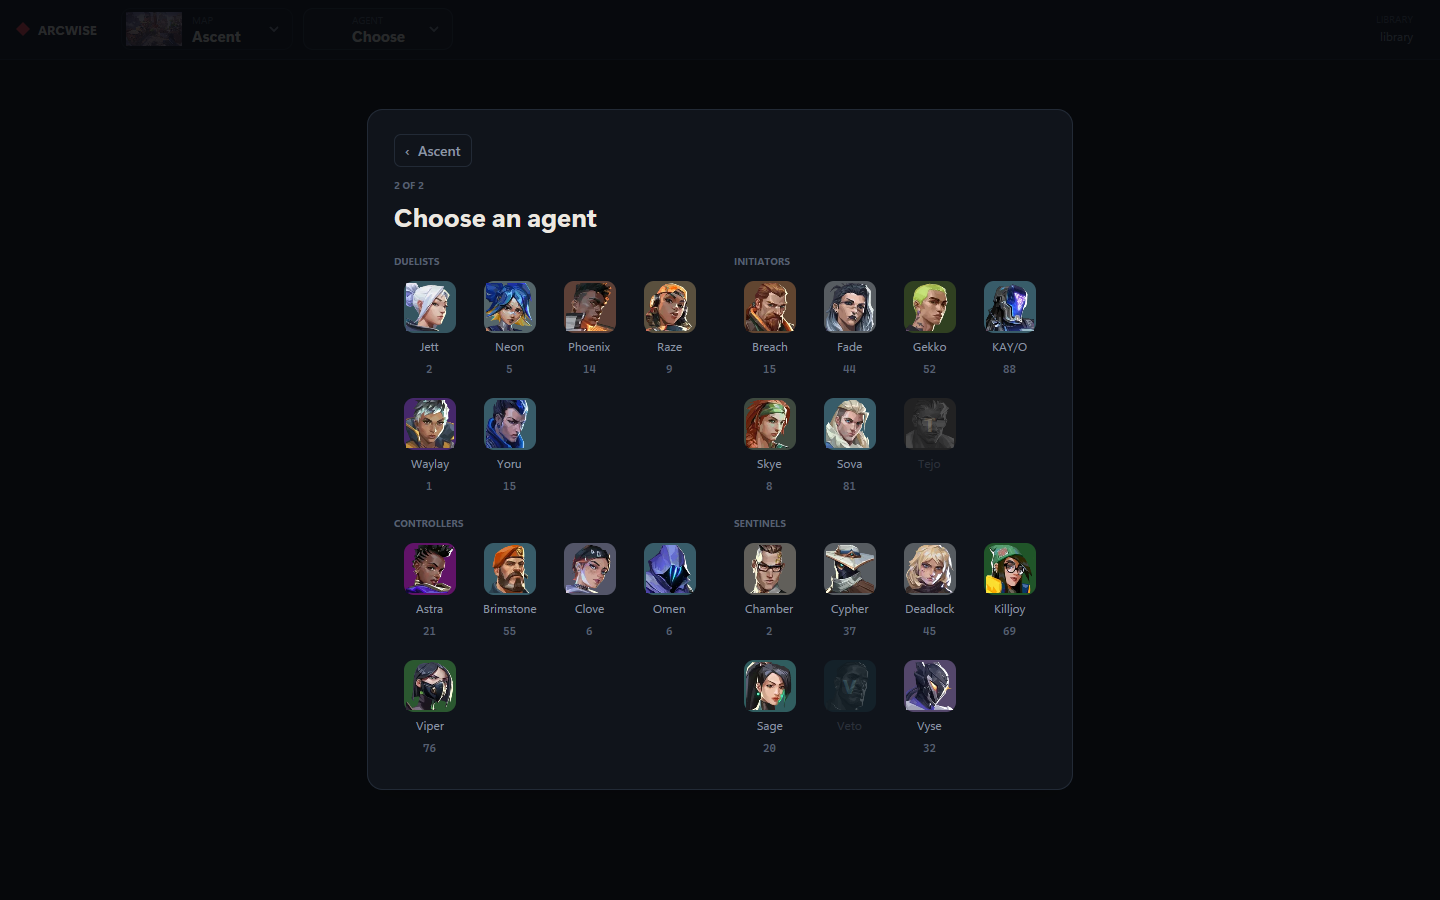
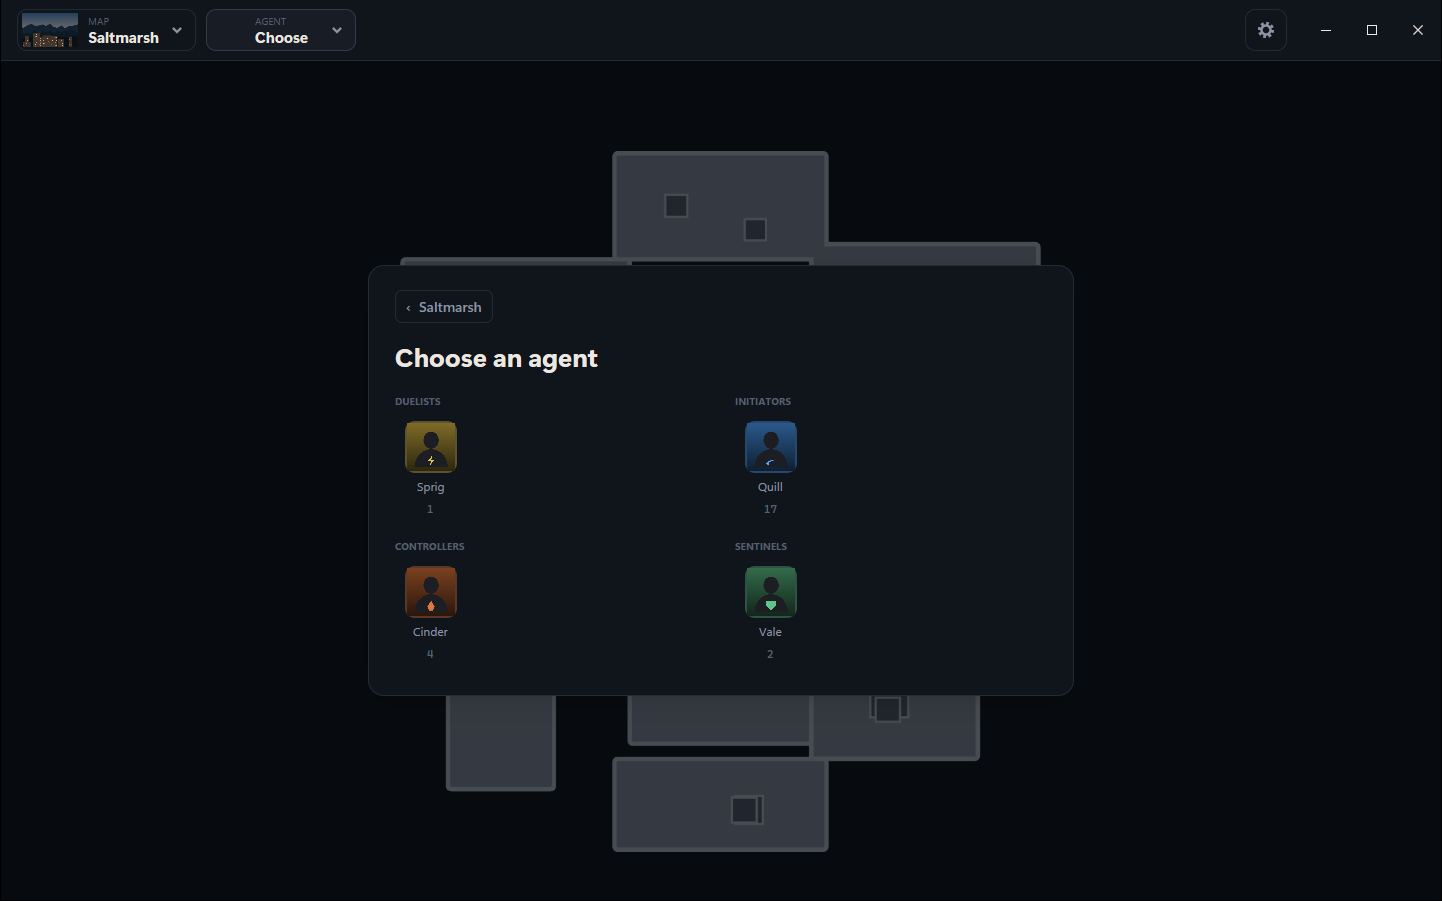
docs: rewrite the README with a quick start and screenshots (#26)
Rewrites the README in the shape the owner approved on two pilots
(taproot's, spareline #41 and teamdiff #22/#23), for a desktop app: what
Arcwise is and who it is for, how it differs from lineup videos and
overlays and what it doesn't do, a list of what it does, a hero
screenshot that links to a new gallery, a Quick start from the release
page to a lineup on screen, and where its files are and how to remove
it.

This is a rules pull request: `readme_sections` in `Cargo.toml` becomes
`["Quick start", "Documentation", "License"]` for the README's new
sections. The README, `docs/using.md` and the screenshots ride with it.
No crate changes, so no release.

## What changes for a reader

- `README.md`: the opening, the feature list with links into
`docs/using.md`, the hero image (`docs/screenshots/lineup.png`, linking
to the gallery), `## Quick start` with the installer's own words and
Windows' SmartScreen prompt for an unsigned installer, where the
program, settings and web-library copies live, and what the uninstaller
leaves. `## Documentation` gains a Screenshots entry. `## License` is
unchanged.
- `docs/using.md`: a new `## Screenshots` gallery with 14 screens, and
new alt text for its two inline images.
- `docs/screenshots/`: 12 new PNGs, and `choose-map.png` and
`choose-agent.png` replaced. The old two showed the live library, with
the game's map art and real lineup counts; the new ones show invented
data.

## The screenshots
[…]

diff --git a/README.md b/README.md
@@ -3,19 +3,93 @@
 [![CI](https://github.com/265866/arcwise/actions/workflows/ci.yml/badge.svg?branch=main)](https://github.com/265866/arcwise/actions/workflows/ci.yml?query=branch%3Amain)
 [![Latest release](https://img.shields.io/github/v/release/265866/arcwise)](https://github.com/265866/arcwise/releases/latest)
 
-A desktop lineup browser for Valorant.
+Arcwise is a Windows app for learning Valorant lineups: the throws that land a smoke, a dart or a
+molly on one exact spot. Pick a map and an agent, and it marks every spot where that agent's
+utility lands. Select one, and it shows where to stand, where to aim and how to throw, with a clip
+of the throw. It is for players who learn lineups between matches or keep them open on a second
+monitor while they play.
 
-## Install
+Lineups usually come as videos and web pages, one throw at a time, found by searching. Arcwise puts
+them on the map instead: all of a map's lineups for an agent at once, ready to walk through with
+the keyboard. The lineups come from libraries, each a web address or a folder of clips and
+pictures; Arcwise starts with [library.arcwise.lol](https://library.arcwise.lol/) and has no editor
+for making new ones. Arcwise never touches the game: nothing is drawn over it, nothing is read from
+it, and there is no Riot sign-in, so you tell it the map. It runs on 64-bit Windows 10 and 11 only.
 
-Download the file you want for your platform from the
-[latest release](https://github.com/265866/arcwise/releases/latest), check it
-as [Verify a release](docs/verifying-releases.md) shows, and install it.
-[Install](docs/install.md) has the details.
+- **Every landing on the map.** Lineups of one ability that land in the same place share a marker,
+  with a count. Point at one to see what lands there and where it is thrown from. See
+  [What it does](docs/using.md#what-it-does).
+- **The throw, four ways.** The clip, the stand spot on the map, the crosshair at the throw, and
+  where it lands, with the steps written out and a note for a jump throw or the like. See
+  [What it does](docs/using.md#what-it-does).
+- **Keys for browsing.** Arrow keys walk the landings and stand spots, Q, W, E and R switch the
+  view, and Space, Backspace and S pause, restart and slow the clip. Every shortcut but Esc and the
+  number keys can be changed. See [Keyboard](docs/using.md#keyboard).
+- **More libraries, and offline maps.** Add a library folder or another library on the web. Keep
+  a web library's maps on disk, and they play without a connection. See
+  [Lineups](docs/using.md#lineups) and [Libraries](docs/library-format.md).
+- **Hardware video.** Clips decode on the GPU and keep their full frame rate while the game has
+  focus. See [What it does](docs/using.md#what-it-does).
+- **Updates itself** once installed. Before it runs a new installer, it checks the installer's
+  GitHub attestation, a signed record that this repository's release workflow built that exact
+  file. See [Updates](docs/using.md#updates).
+
+[![Arcwise with a lineup open, in its dark theme. On the left, the map Saltmarsh with a marker for each landing and the selected throw drawn from stand spot 1. On the right, the lineup "Dart A Default from Lobby": its three stand spots, the clip with the dart in flight, tiles for the clip, stand spot, aim and landing views, the bow's charge bar, and the steps. The map, the agent Quill and the clip are invented for the screenshots.](docs/screenshots/lineup.png)](docs/using.md#screenshots)
+
+Select the picture, or see [Screenshots](docs/using.md#screenshots), for every screen from choosing
+a map to the settings. The maps, agents and clips in them are made up for the screenshots.
+
+## Quick start
+
+You need 64-bit Windows 10 or 11 with a graphics card that runs Direct3D 11, and an internet
+connection for the lineups of [library.arcwise.lol](https://library.arcwise.lol/). Clips in AV1
+also need the [AV1 Video Extension](https://apps.microsoft.com/detail/9mvzqvxjbq9v) from the
+Microsoft Store, which Windows 11 usually has already.
+
+1. Download `arcwise-<version>-x64-setup.exe` from the
+   [latest release](https://github.com/265866/arcwise/releases/latest). To check the file first,
+   follow [Verify a release](docs/verifying-releases.md).
+
+2. Open the file. The installer has no code signature yet, so SmartScreen may stop it with
+   "Windows protected your PC". Select **More info**, then **Run anyway**.
+
+3. Follow the installer. It installs Arcwise for your Windows account only, so it never asks for
+   administrator rights. It adds Arcwise to the Start menu, and to the desktop if you tick
+   **Create a desktop shortcut**. Leave **Launch Arcwise** ticked and select **Finish**.
+
+4. Arcwise says "Loading lineups…" while it fetches the library, then opens on **Choose a map**.
+   Pick a map, then an agent. Without a connection it says "No lineups to show" instead: connect
+   and select **Try again**, or select **Add a folder…** for a library folder you already have.
+
+5. Select a marker on the map. The panel on the right plays the clip of the throw. Press
+   <kbd>W</kbd>, <kbd>E</kbd> and <kbd>R</kbd> for where to stand, where to aim and where it lands,
+   and <kbd>Q</kbd> for the clip, which the panel calls **Watch**. <kbd>←</kbd> and <kbd>→</kbd>
+   move to another stand spot for the same landing, <kbd>↓</kbd> and <kbd>↑</kbd> to the next or
+   previous landing, and <kbd>Tab</kbd> between attack and defense. <kbd>Esc</kbd> goes back to
+   the map.
+
+Arcwise reopens where you left it, on the same map, agent and monitor. When a new version comes
+out, it downloads it in the background and installs it when you close Arcwise, as long as
+**Automatic updates** stays on, as it is at first.
+[Use Arcwise](docs/using.md) has the settings, the command line, and how updates work. To run
+Arcwise without installing it, the release also has `arcwise-<version>-x64.zip`, with the same
+`arcwise.exe`; a copy run from the zip doesn't update itself.
+
+If you have Arcwise 0.10.0 or earlier, it can't reach releases from this repository by itself:
+run the new installer once over it, and your settings carry over.
+
+**Where its files are.** Arcwise installs in `%LOCALAPPDATA%\Programs\Arcwise` by default. Its
+settings are in `%APPDATA%\Arcwise\settings.json`, and its copies of libraries on the web in
+`%LOCALAPPDATA%\Arcwise\libraries`. To remove Arcwise, uninstall it from **Settings** > **Apps** >
+**Installed apps** (**Apps & features** on Windows 10). The uninstaller asks whether to delete
+your settings too. It leaves the copies of web libraries, so delete `%LOCALAPPDATA%\Arcwise` as
+well to remove everything.
 
 ## Documentation
 
-- [Install](docs/install.md): every way to install and update it.
 - [Use Arcwise](docs/using.md): install it on Windows, what it does, its keys and settings, and how it updates itself.
+- [Screenshots](docs/using.md#screenshots): every screen, from choosing a map to the settings.
+- [Install](docs/install.md): every way to install and update it.
 - [Libraries](docs/library-format.md): how Arcwise reads, merges and mirrors lineup libraries.
 - [Verify a release](docs/verifying-releases.md): check that a download came from this repository.
 - [Design](docs/design.md): the goals, the architecture, and the decisions behind them.

diff --git a/docs/using.md b/docs/using.md
@@ -6,7 +6,7 @@ browser for Valorant. Pick a map and an agent, see where each piece of utility l
 exactly where to stand, where to aim and how to throw. It is a separate window, not an overlay:
 keep it on a second monitor while you play.
 
-![Choosing a map](screenshots/choose-map.png)
+![Choose a map: a card for each map with lineups, with its picture and how many lineups it has. The maps are invented for the screenshots.](screenshots/choose-map.png)
 
 ## Install on Windows
 
@@ -40,7 +40,7 @@ The uninstaller asks whether to delete your settings too.
   frame rate even while another window has focus, at about an eighth of one CPU core (as
   measured for Arcwise 0.10.0, which decodes the same way).
 
-![Choosing an agent](screenshots/choose-agent.png)
+![Choose an agent: the agents grouped as duelists, initiators, controllers and sentinels, each with how many lineups it has on the map. The agents are invented for the screenshots.](screenshots/choose-agent.png)
 
 ## Keyboard
 
@@ -142,3 +142,31 @@ command line Arcwise can't read, such as an unknown flag or `--side up`, opens t
 error. `arcwise --version` prints the
 version and exits; from a console, pipe or redirect it, such as `arcwise --version | more`, since
 Arcwise is a windowed program and has no console of its own.
+
+## Screenshots
+
+The screenshots show Arcwise 0.11.1 in its dark theme, with background blur off, on a library made
+up for them. Its maps, agents, abilities, callouts, pictures and clips are invented and drawn, and
+none of them comes from the game or from library.arcwise.lol. Select an image to see it at full
+size.
+
+| Screen | Screenshot |
+| --- | --- |
+| **Choose a map:** the first run, before a map is picked | [<img src="screenshots/choose-map.png" width="480" alt="Choose a map: four invented maps, each with its picture and how many lineups it has">](screenshots/choose-map.png) |
+| **Choose an agent:** each agent by role, with how many lineups it has on the map | [<img src="screenshots/choose-agent.png" width="480" alt="Choose an agent: one invented agent in each of the four roles, each with how many lineups it has on Saltmarsh">](screenshots/choose-agent.png) |
+| **The map:** a marker for every landing, and a filter for each ability | [<img src="screenshots/map.png" width="480" alt="The map Saltmarsh with ten landing markers, two of them with a count, under buttons for All and each of three abilities">](screenshots/map.png) |
+| **A landing:** pointing at a marker says what lands there and where it is thrown from | [<img src="screenshots/landing.png" width="480" alt="A tooltip over a marker: Tracer Dart lands at A Default, from A Lobby, A Main and A Link">](screenshots/landing.png) |
+| **The map picker:** the header's map and agent open as dropdowns after the first run | [<img src="screenshots/map-picker.png" width="480" alt="The map dropdown open under the header, with the four maps and Saltmarsh selected">](screenshots/map-picker.png) |
+| **A lineup:** the clip, the stand spots for the landing, the bow's charge and the steps | [<img src="screenshots/lineup.png" width="480" alt="A lineup open: the map with the throw drawn from stand spot 1, and the panel with the clip of the dart in flight, the four view tiles, the bow's charge bar and the steps">](screenshots/lineup.png) |
+| **Stand:** the map around the stand spot, with the throw's direction | [<img src="screenshots/stand.png" width="480" alt="The stand view: the map zoomed in on stand spot 1, with a dashed line for the throw">](screenshots/stand.png) |
+| **Aim:** the crosshair at the moment of the throw | [<img src="screenshots/aim.png" width="480" alt="The aim view: a drawn scene from the stand spot with the crosshair where to aim">](screenshots/aim.png) |
+| **Lands:** where the throw lands | [<img src="screenshots/lands.png" width="480" alt="The lands view: the same drawn scene with the landing glowing on the ground">](screenshots/lands.png) |
+| **Settings, General:** the libraries shown, and whether Arcwise opens where you left off | [<img src="screenshots/settings-general.png" width="480" alt="The General tab: the demo library folder with 40 lineups on 4 maps, the buttons to add a folder or a web address, and Open where I left off">](screenshots/settings-general.png) |
+| **Settings, Appearance:** the theme, the title bar and background blur. Reset shows because blur is off here, which isn't the default. | [<img src="screenshots/settings-appearance.png" width="480" alt="The Appearance tab: Dark, Light and System themes, Custom title bar on, and Background blur off with Reset beside it">](screenshots/settings-appearance.png) |
+| **Settings, Keyboard:** every shortcut, and the ones that can't change | [<img src="screenshots/settings-keyboard.png" width="480" alt="The Keyboard tab: the shortcuts for browsing, the views, the clip and the window, with Esc and the number keys marked fixed">](screenshots/settings-keyboard.png) |
+| **Settings, Updates:** as a copy run from the zip or built from source shows it | [<img src="screenshots/settings-updates.png" width="480" alt="The Updates tab: Automatic updates on, Arcwise 0.11.1 not run from where it was installed so it does not update itself, and What's new">](screenshots/settings-updates.png) |
+| **Windows' title bar:** with **Custom title bar** off | [<img src="screenshots/windows-title-bar.png" width="480" alt="Arcwise under Windows' own dark title bar, with the header below it">](screenshots/windows-title-bar.png) |
+
+An installed Arcwise's **Updates** tab says when it last checked and, when there is one, offers the
+newer version. That needs a real check with GitHub, so it has no screenshot, and neither does
+**Offline…**, which only a library on the web has.
